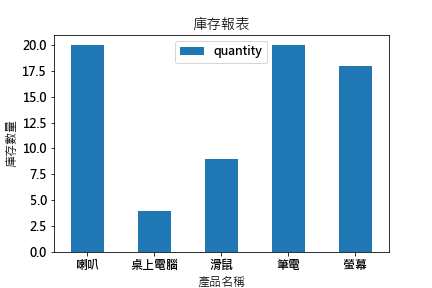
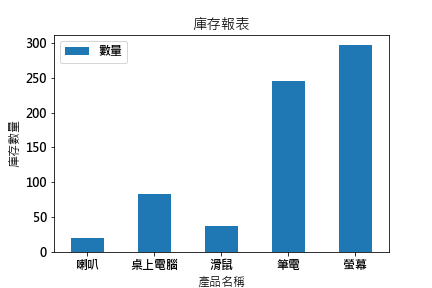
0726

diff --git a/python/專案2/untitled0.py b/python/專案2/untitled0.py
@@ -1,100 +1,33 @@
 # -*- coding: utf-8 -*-
 """
-Created on Wed Jul 22 20:11:29 2020
+Created on Sun Jul 26 19:07:35 2020
 
 @author: 莫再提
-"""  
+"""
 
 
-import pymongo 
-import urllib.parse
-import dns
-
-
-
-from pymongo import MongoClient
-
-import urllib.parse
-from datetime import datetime 
-
-###############################################################################
-#                       股票機器人 Python基礎教學 【pymongo教學】                      #
-###############################################################################
-
-##### 發出請求 #####
-client = pymongo.MongoClient("mongodb+srv://root:1234@cluster0.jgbg8.mongodb.net/test?retryWrites=true&w=majority")
-db = client.test
-
-##### 切換資料庫 #####
-dbname='你的資料庫'
-db = client[dbname]
-
-##### 輸入想搜尋的collection #####
-collection_name = '你的collection名稱'
-##### 注意下方的 coll 只是我自己命名 #####
-coll = db[collection_name]
-
-
-
-#####取出所有doc #####
-coll.find()
-
-##### 轉成list #####
-list(coll.find())
-
-##### 插入 單行 #####
-dic = {'userid':'lw73iofqnjwenqeopop12387',
-       'username':'apple',
-       'creattime':datetime.now(),
-       'Note':'testuser'}
-
-coll.insert_one(dic)
-
-##### 插入 多行 #####
-dic_list = [{'userid':'nrt345iofqnjwengtgg4387',
-           'username':'jarry',
-           'creattime':datetime.now(),
-           'Note':'testuser'},
-            {'userid':'jei45646hop4454op12387',
-           'username':'ketio',
-           'creattime':datetime.now(),
-           'Note':'testuser'},
-            {'userid':'rgmmemroemrm37237y4',
-           'username':'zino',
-           'creattime':datetime.strptime('2018-05-30 16:20:06',
-                                         '%Y-%m-%d %H:%M:%S'),
-           'Note':'testuser'}]
-
-coll.insert_many(dic_list)
-
-##### 排序 預設遞增排序 A -> Z #####
-list(coll.find().sort("username"))
-list(coll.find().sort("username",pymongo.ASCENDING))
-list(coll.find().sort("username",pymongo.DESCENDING))
-
-
-##### 根據時間選擇 #####
-start = datetime.strptime('2018-04-30 16:20:06',
-                           '%Y-%m-%d %H:%M:%S')
-end = datetime.strptime('2018-06-30 16:20:06',
-                           '%Y-%m-%d %H:%M:%S')
-list(coll.find({'creattime': {'$gte': start, '$lt': end}}))
-
-##### 針對特殊id 抓取 #####
-from bson.objectid import ObjectId
-list(coll.find({'_id':ObjectId('5c0c84ec63d7d51c508a9890')}))
-
-##### 根據條件 整個取代 #####
-coll.update({'username':'jarry'} ,
-             {'Note':'updateuser'})
-
-##### 根據條件 指取代其中一個 #####
-coll.update({"username":"ketio"},
-            {"$set":{"Email":"libing@126.com","Password":"123"}}) 
-
-
-##### 移除單個 #####
-coll.delete_one({'username':'ketio'})
-
-##### 移除多個 #####
-coll.delete_many({'Note':'testuser'}) 
+   elif event.message.text == "Buttons Template":
+        buttons_template = TemplateSendMessage(
+        alt_text='Buttons Template',
+        template=ButtonsTemplate(
+            title='這是ButtonsTemplate',
+            text='ButtonsTemplate可以傳送text,uri',
+            thumbnail_image_url='顯示在開頭的大圖片網址',
+            actions=[
+                MessageTemplateAction(
+                    label='ButtonsTemplate',
+                    text='ButtonsTemplate'
+                ),
+                URITemplateAction(
+                    label='VIDEO1',
+                    uri='影片網址'
+                ),
+                PostbackTemplateAction(
+                    label='postback',
+                    text='postback text',
+                    data='postback1'
+                )
+            ]
+        )
+    )
+    line_bot_api.reply_message(event.reply_token, buttons_template)

diff --git a/python/專案2/主畫面.py b/python/專案2/主畫面.py
@@ -291,10 +291,10 @@ def show_sell_figue():
 def showfigue():
     db = pymysql.connect( "Localhost"  ,'root' ,'1234' ,'test' ,charset='utf8')
     test = db.cursor() 
-    df=pd.read_sql("""SELECT name , quantity FROM momom GROUP BY name""",con=db)
+    df=pd.read_sql("""SELECT name , SUM(quantity) as "數量" FROM momom GROUP BY name""",con=db)
 
 
-    df.plot.bar(x='name',y='quantity')
+    df.plot.bar(x='name',y='數量')
     plt.title('庫存報表')#圖表的標題
     plt.xlabel('產品名稱')#x座標標題
     plt.ylabel('庫存數量')#y座標標題
@@ -513,24 +513,6 @@ text4.grid(row=5,column=10,columnspan=5,rowspan=19)
 sc12 =Scrollbar(window)
 sc12.grid(row=5,column=15,sticky=(N,S),rowspan=19)
 sc12.config(command=text2.yview) #將轉軸設定為文字的Y軸
-
-
-
-
-
-
-
-
-
-
-
-
-
-
-
-
-
-
 
 
 
